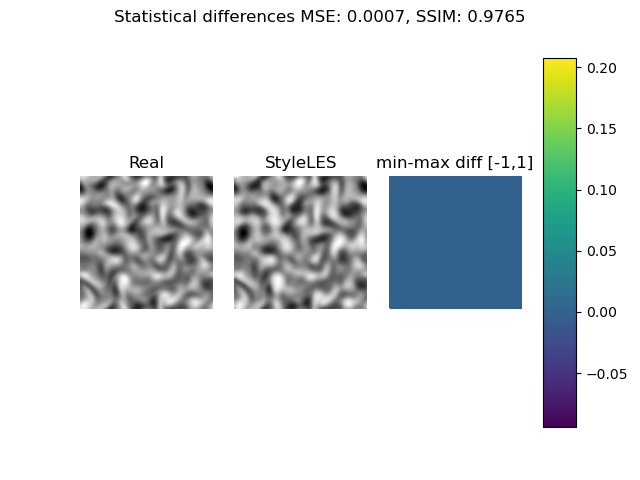
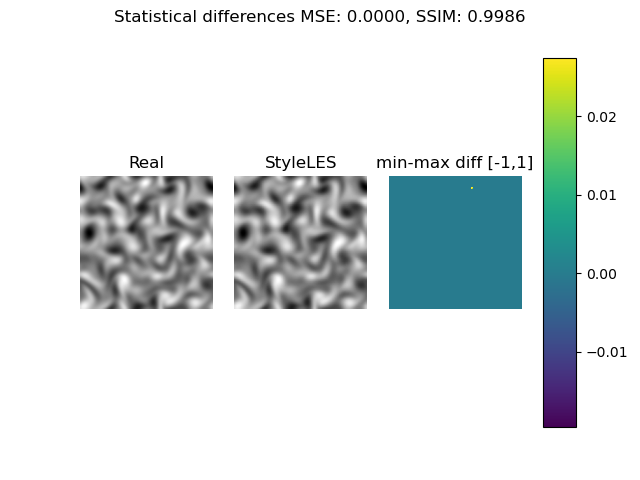
Addded BC. This works only for the non-fused upscaling

diff --git a/functions.py b/functions.py
@@ -19,6 +19,41 @@ from tensorflow.keras import layers
 
 #---------------------functions to build StyleGAN network--------------------
 
+# define periodic padding
+def periodic_padding_flexible(tensor, axis, padding=1):
+    """
+        add periodic padding to a tensor for specified axis
+        tensor: input tensor
+        axis: on or multiple axis to pad along, int or tuple
+        padding: number of cells to pad, int or tuple
+
+        return: padded tensor
+    """
+
+    if isinstance(axis,int):
+        axis = (axis,)
+
+    if isinstance(padding,int):
+        padding = (padding,)
+
+    ndim = len(tensor.shape)
+
+    if (padding[0][0]>0):
+        for ax,p in zip(axis,padding):
+            # create a slice object that selects everything from all axes,
+            # except only 0:p for the specified for right, and -p: for left
+
+            ind_right = [slice(-p[0],None) if i == ax else slice(None) for i in range(ndim)]
+            ind_left  = [slice(0, p[1])    if i == ax else slice(None) for i in range(ndim)]
+
+            right     = tensor[ind_right]
+            left      = tensor[ind_left]
+            middle    = tensor
+            tensor    = tf.concat([right,middle,left], axis=ax)
+
+    return tensor
+
+
 #-------------Pixel normalization
 def pixel_norm(x, epsilon=1e-8):
     epsilon = tf.constant(epsilon, dtype=x.dtype)
@@ -203,6 +238,25 @@ def _blur2d(x, f=[1, 2, 1], normalize=True, flip=False, stride=1):
     x = tf.cast(x, tf.float32)  # tf.nn.depthwise_conv2d() doesn't support fp16
     f = tf.constant(f, dtype=x.dtype, name="filter")
     strides = [1, 1, stride, stride]
+
+    # if (f.shape[0] % 2 == 0):
+    #     pleft   = np.int((f.shape[0]-1)/2)
+    #     pright  = np.int(f.shape[0]/2)
+    # else:
+    #     pleft   = np.int((f.shape[0]-1)/2)
+    #     pright  = pleft
+
+    # if (f.shape[1] % 2 == 0):
+    #     ptop    = np.int((f.shape[1]-1)/2)
+    #     pbottom = np.int(f.shape[1]/2)
+    # else:
+    #     ptop    = np.int((f.shape[1]-1)/2)
+    #     pbottom = ptop
+
+    # x2 = periodic_padding_flexible(x, axis=(2,3), padding=([pleft, pright], [ptop, pbottom]))
+    # x2 = tf.nn.depthwise_conv2d(x2, f, strides=strides, padding="VALID", data_format="NCHW")
+    # x2 = tf.cast(x2, orig_dtype)
+
     x = tf.nn.depthwise_conv2d(
         x, f, strides=strides, padding="SAME", data_format="NCHW"
     )
@@ -267,7 +321,24 @@ def conv2d(x, fmaps, kernel, **kwargs):
     get_weight = layer_get_Weight([kernel, kernel, x.shape[1], fmaps], **kwargs)
     w = get_weight(x)
     w = tf.cast(w, x.dtype)
-    return tf.nn.conv2d(x, w, strides=[1, 1, 1, 1], padding="SAME", data_format="NCHW")
+    strides=[1, 1, 1, 1]
+
+    if (w.shape[0] % 2 == 0):
+        pleft   = np.int((w.shape[0]-1)/2)
+        pright  = np.int(w.shape[0]/2)
+    else:
+        pleft   = np.int((w.shape[0]-1)/2)
+        pright  = pleft
+
+    if (w.shape[1] % 2 == 0):
+        ptop    = np.int((w.shape[1]-1)/2)
+        pbottom = np.int(w.shape[1]/2)
+    else:
+        ptop    = np.int((w.shape[1]-1)/2)
+        pbottom = ptop
+
+    x = periodic_padding_flexible(x, axis=(2,3), padding=([pleft, pright], [ptop, pbottom]))
+    return tf.nn.conv2d(x, w, strides=strides, padding="VALID", data_format="NCHW")
 
 
 #-------------Upscale conv2d
@@ -369,8 +440,24 @@ def conv2d_downscale2d(x, fmaps, kernel, fused_scale="auto", **kwargs):
     w = tf.pad(w, [[1, 1], [1, 1], [0, 0], [0, 0]], mode="CONSTANT")
     w = tf.add_n([w[1:, 1:], w[:-1, 1:], w[1:, :-1], w[:-1, :-1]]) * 0.25
     w = tf.cast(w, x.dtype)
+    strides=[1, 1, 2, 2]
 
-    return tf.nn.conv2d(x, w, strides=[1, 1, 2, 2], padding="SAME", data_format="NCHW")
+    if (w.shape[0] % 2 == 0):
+        pleft   = np.int((w.shape[0]-1)/2)
+        pright  = np.int(w.shape[0]/2)
+    else:
+        pleft   = np.int((w.shape[0]-1)/2)
+        pright  = pleft
+
+    if (w.shape[1] % 2 == 0):
+        ptop    = np.int((w.shape[1]-1)/2)
+        pbottom = np.int(w.shape[1]/2)
+    else:
+        ptop    = np.int((w.shape[1]-1)/2)
+        pbottom = ptop
+
+    x = periodic_padding_flexible(x, axis=(2,3), padding=([pleft, pright], [ptop, pbottom]))
+    return tf.nn.conv2d(x, w, strides=strides, padding="VALID", data_format="NCHW")
 
 
 #-------------convert to python image

diff --git a/utilities/periodic_BC.py b/utilities/periodic_BC.py
@@ -1,0 +1,78 @@
+import tensorflow as tf
+import numpy as np
+
+def periodic_padding_flexible(tensor, axis, padding=1):
+    """
+        add periodic padding to a tensor for specified axis
+        tensor: input tensor
+        axis: on or multiple axis to pad along, int or tuple
+        padding: number of cells to pad, int or tuple
+
+        return: padded tensor
+    """
+
+    if isinstance(axis,int):
+        axis = (axis,)
+
+    if isinstance(padding,int):
+        padding = (padding,)
+
+    ndim = len(tensor.shape)
+
+    if (padding[0][0]>0):
+        for ax,p in zip(axis,padding):
+            # create a slice object that selects everything from all axes,
+            # except only 0:p for the specified for right, and -p: for left
+
+            ind_right = [slice(-p[0],None) if i == ax else slice(None) for i in range(ndim)]
+            ind_left  = [slice(0, p[1])    if i == ax else slice(None) for i in range(ndim)]
+
+            right     = tensor[ind_right]
+            left      = tensor[ind_left]
+            middle    = tensor
+            tensor    = tf.concat([right,middle,left], axis=ax)
+
+    return tensor
+
+
+
+x_in = np.ones([1, 1, 4, 4])
+x_in[:,:, :, 0] = 0
+x_in[:,:, 0, :] = 0
+x_in[:,:, :,-1] = 0
+x_in[:,:,-1, :] = 0
+x_in[:,:, :, 1] = 0
+x_in[:,:, 1, :] = 0
+
+x = tf.constant(x_in, dtype=tf.float32)
+
+w = tf.constant(1.0, shape=[4, 4, 1, 1], dtype=tf.float32)
+y1 = tf.nn.conv2d(x, filters=w, strides=[1, 1, 2, 2], padding="SAME", data_format="NCHW")
+
+
+
+if (w.shape[0] % 2 == 0):
+    pleft   = np.int((w.shape[0]-1)/2)
+    pright  = np.int(w.shape[0]/2)
+    ptop    = pleft
+    pbottom = pright
+else:
+    pleft   = np.int(w.shape[0]/2)
+    pright  = pleft
+    ptop    = pleft
+    pbottom = pleft
+    
+
+xpadded = periodic_padding_flexible(x, axis=(2,3), padding=([pleft, pright], [ptop, pbottom]))
+y2 = tf.nn.conv2d(xpadded, filters=w, strides=[1, 1, 2, 2], padding="VALID", data_format="NCHW")
+
+
+xpadded = periodic_padding_flexible(x, axis=(2,3), padding=([pleft, pright], [ptop, pbottom]))
+y3 = tf.nn.depthwise_conv2d(xpadded, filter=w, strides=[1, 1, 2, 2], padding="VALID", data_format="NCHW")
+
+
+
+print(x_in)
+print(y1)
+print(y2)
+print(y3)

diff --git a/utilities/compare.py b/utilities/compare.py
@@ -14,14 +14,18 @@
 # 1) Plot differences between two images (from https://www.pyimagesearch.com/2014/09/15/python-compare-two-images/)
 
 # import the necessary packages
+import matplotlib.pyplot as plt
+import numpy as np
+import sys
+import importlib
+
+sys.path.insert(0, '../')
+
 from PIL import Image, ImageChops
 from skimage.metrics import structural_similarity as ssim
 from matplotlib import gridspec
 from parameters import *
 
-import matplotlib
-import matplotlib.pyplot as plt
-import numpy as np
 
 NIMG = 10              # number of images to use for statistical values
 CONVERT_TO_BW = True
@@ -89,7 +93,7 @@ def trim(im):
 
 
 # load the images -- the orig, the orig + fake
-orig = Image.open("./testloop/data/2D_HIT.png")
+orig = Image.open("./../testloop/data/2D_HIT.png")
 
 # convert to black and white
 orig = orig.convert("L") 
@@ -103,7 +107,7 @@ orig = orig.resize((OUTPUT_DIM,OUTPUT_DIM))
 #load fake images
 for i in range(NIMG, 0, -1):
     val = TOT_ITERATIONS - IMAGES_EVERY*(i-1)
-    filename = "./images/image_{:d}x{:d}/it_{:06d}.png".format(OUTPUT_DIM, OUTPUT_DIM, val)
+    filename = "./../images/image_{:d}x{:d}/it_{:06d}.png".format(OUTPUT_DIM, OUTPUT_DIM, val)
     temp = Image.open(filename)
     temp = temp.convert("L")
     temp = trim(temp)
@@ -120,4 +124,4 @@ if (NIMG>0):
     fake = fake.convert("L") 
 
 # compare the images
-compare_images(orig, fake, "./testloop/Real_vs_fake.png")
+compare_images(orig, fake, "./../testloop/Real_vs_fake.png")

diff --git a/MSG_StyleGAN_tf2.py b/MSG_StyleGAN_tf2.py
@@ -98,7 +98,7 @@ def make_synthesis_model():
     use_styles        = True         # Enable style inputs                             
     blur_filter       = BLUR_FILTER  # Low-pass filter to apply when resampling activations. 
                                      # None = no filtering.
-    fused_scale="auto"               # True = fused convolution + scaling, False = separate ops, 'auto' = decide automatically.
+    fused_scale=False               # True = fused convolution + scaling, False = separate ops, 'auto' = decide automatically.
 
 
     # Inputs
@@ -220,7 +220,7 @@ def make_discriminator_model():
     mbstd_num_features = 1    # Number of features for the minibatch standard deviation layer.
     blur_filter = BLUR_FILTER # Low-pass filter to apply when resampling activations. 
                               # None = no filtering.
-    fused_scale="auto"        # True = fused convolution + scaling, 
+    fused_scale=False        # True = fused convolution + scaling, 
                               # False = separate ops, 'auto' = decide automatically.
 
     def blur(in_x):

diff --git a/parameters.py b/parameters.py
@@ -37,7 +37,7 @@ SCALING_DOWN      = tf.math.exp(-tf.dtypes.cast(64.0, tf.float32) * tf.dtypes.ca
 TOT_ITERATIONS = 50000
 PRINT_EVERY    = 100
 IMAGES_EVERY   = 1000
-SAVE_EVERY     = 50000
+SAVE_EVERY     = 100000
 REDUCE_EVERY   = 100000
 BATCH_SIZE     = 1
 IRESTART       = False

diff --git a/README.md b/README.md
@@ -17,10 +17,10 @@ For the GPU version, make sure you have the following requirements:
 
 # Testloop
 #### 2D Homogeneous Isotropic Turbulence (2D-HIT) - single image
-This test consists into reproducing the same single 2D HIT image after training StyleLES. The following results are expected when running the solver after installing the conda enviroment as above and the following command lines
+The test consists into reproducing a single 2D HIT image. The following results are expected when running the solver after installing the conda enviroment as above and the following command lines
 
 - python main.py
-- python utilities.py
+- python utilities/compare.py
 
 ![image info](./testloop/Real_vs_fake.png)
 
